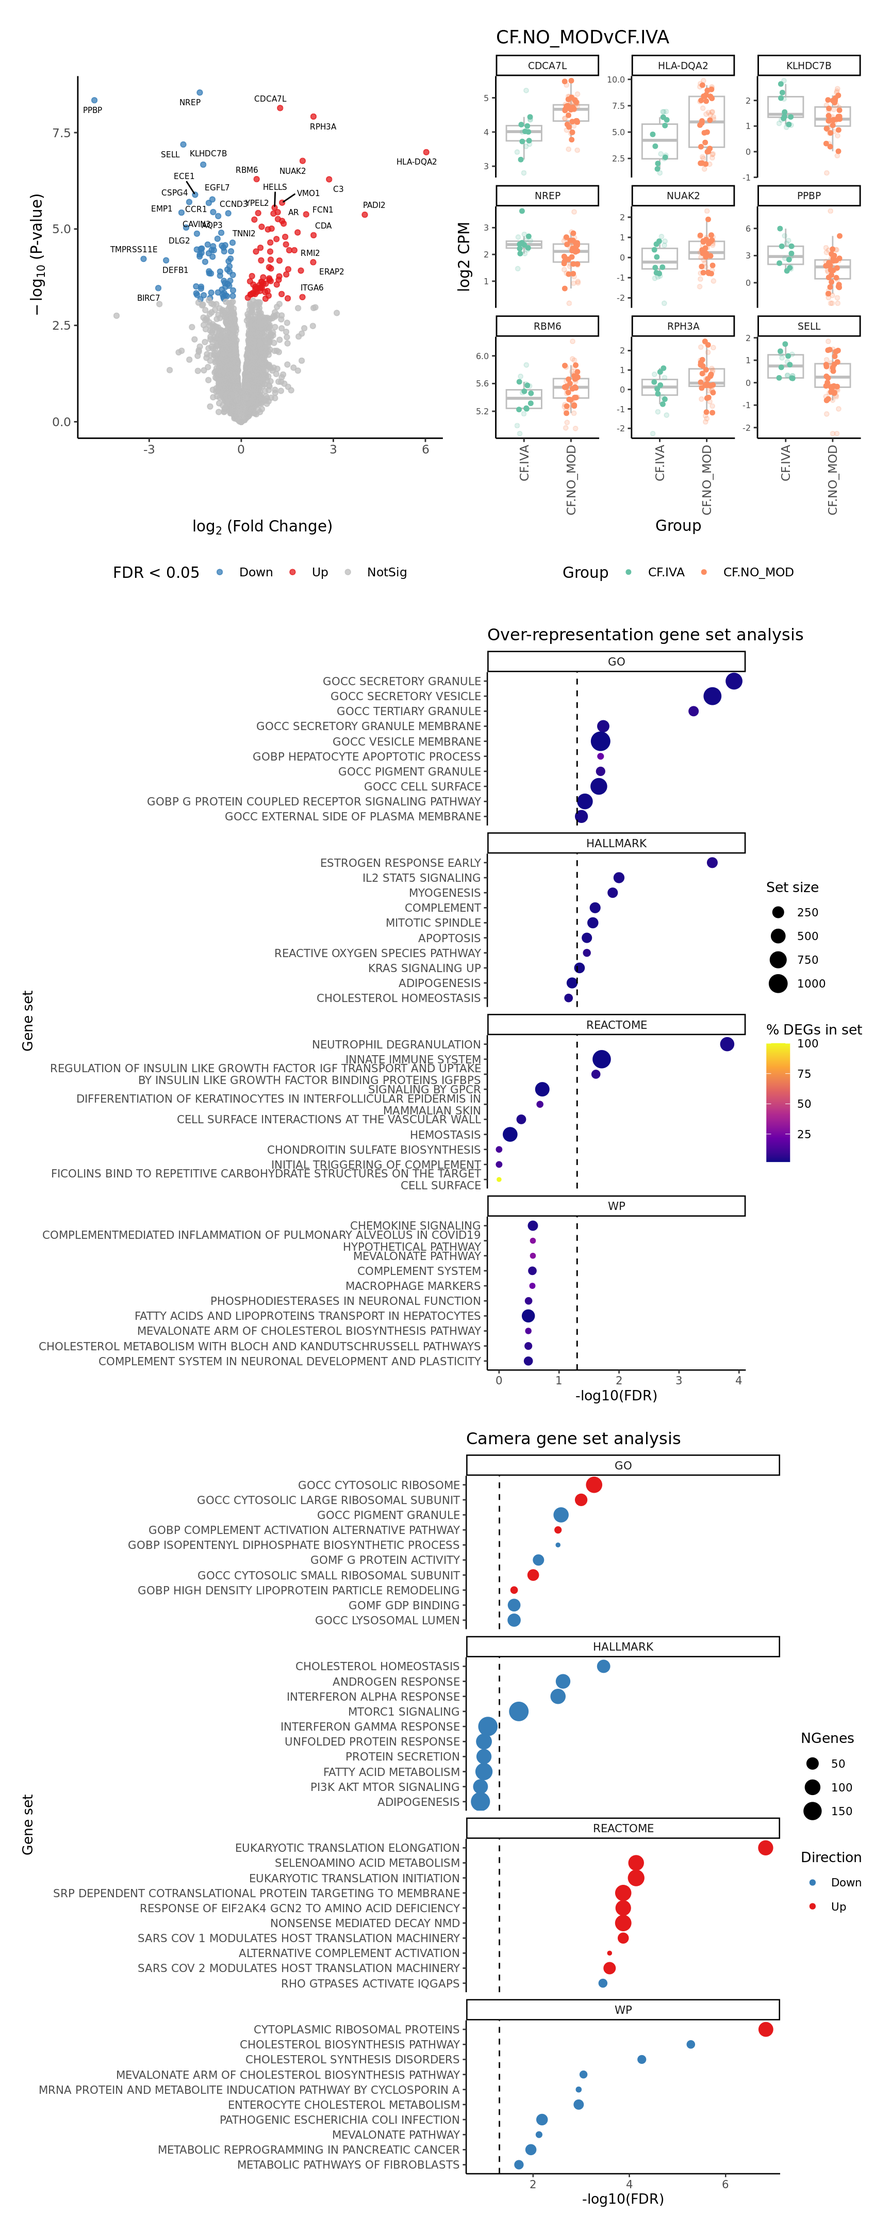
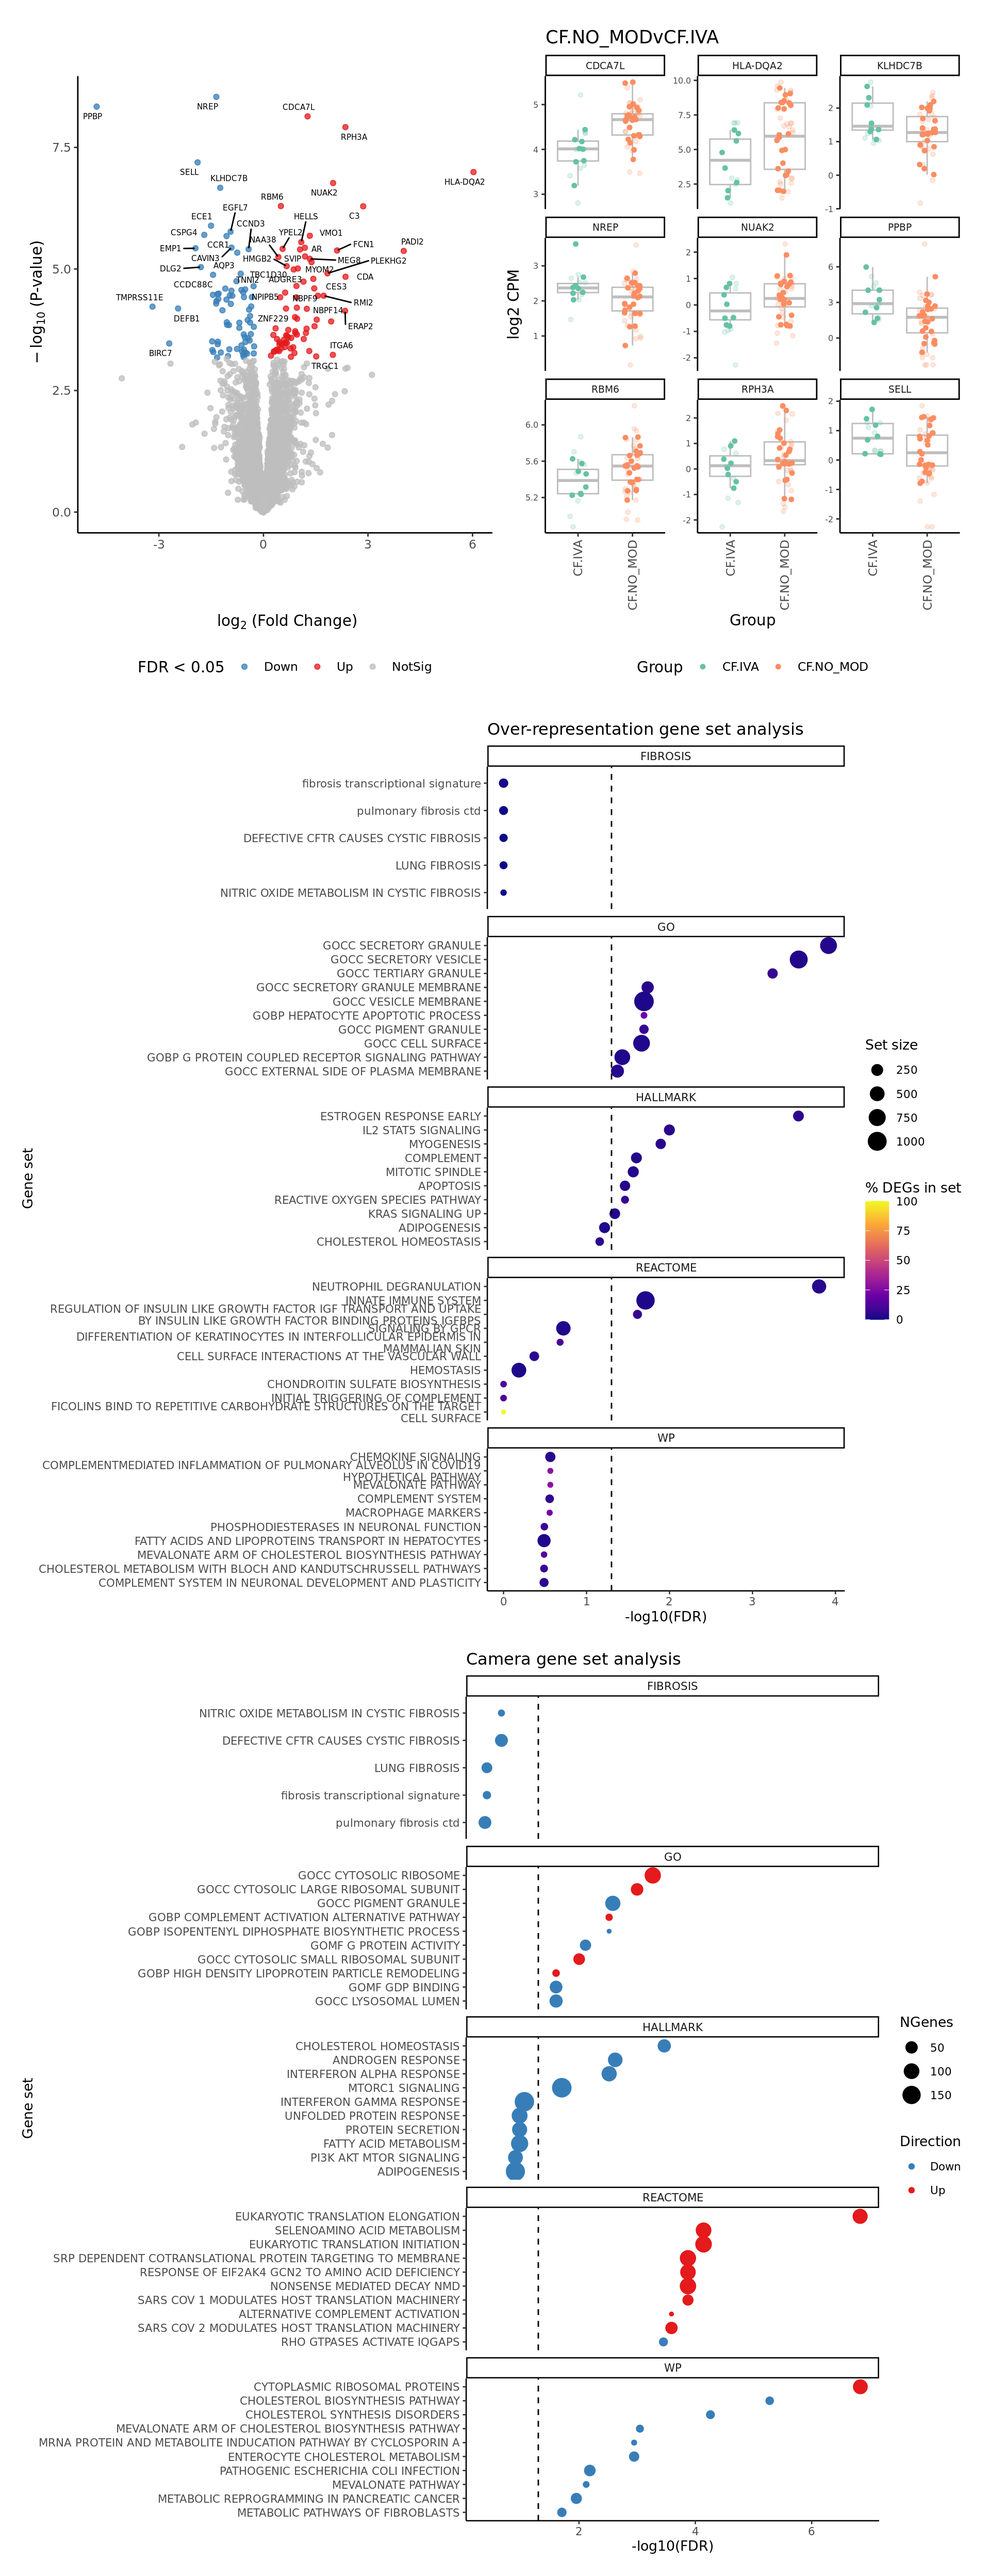
Build site.

diff --git a/docs/13.0_DGE_analysis_macro-alveolar_cells_CF-only-samples.html b/docs/13.0_DGE_analysis_macro-alveolar_cells_CF-only-samples.html
@@ -11,7 +11,7 @@
 
 <meta name="author" content="Jovana Maksimovic" />
 
-<meta name="date" content="2024-09-05" />
+<meta name="date" content="2024-09-06" />
 
 <title>Inflammation of Paediatric Pulmonary Diseases</title>
 
@@ -356,7 +356,7 @@ Diseases</h1>
 <h3 class="subtitle">DGE analysis of alveolar macrophages: CF modifier
 and severity</h3>
 <h4 class="author">Jovana Maksimovic</h4>
-<h4 class="date">September 05, 2024</h4>
+<h4 class="date">September 06, 2024</h4>
 
 </div>
 
@@ -385,7 +385,7 @@ class="glyphicon glyphicon-ok text-success" aria-hidden="true"></span>
 <div class="tab-content">
 <div id="summary" class="tab-pane fade in active">
 <p>
-<strong>Last updated:</strong> 2024-09-05
+<strong>Last updated:</strong> 2024-09-06
 </p>
 <p>
 <strong>Checks:</strong> <span
@@ -516,15 +516,15 @@ project makes it easier to run your code on other machines.</p>
 <div class="panel panel-default">
 <div class="panel-heading">
 <p class="panel-title">
-<a data-toggle="collapse" data-parent="#workflowr-checks" href="#strongRepositoryversionstrongahrefhttpsatlassianpetermacorgaubitbucketscmospaedinflammationciteseqtree36de10984c3c537906128b02756dd410e94206bctargetblank36de109a">
+<a data-toggle="collapse" data-parent="#workflowr-checks" href="#strongRepositoryversionstrongahrefhttpsatlassianpetermacorgaubitbucketscmospaedinflammationciteseqtree3e0e7569c6edf2e4757f13b3fe58ce410fcd4a8atargetblank3e0e756a">
 <span class="glyphicon glyphicon-ok text-success"
 aria-hidden="true"></span> <strong>Repository version:</strong>
-<a href="https://atlassian.petermac.org.au/bitbucket/scm/os/paed-inflammation-citeseq/tree/36de10984c3c537906128b02756dd410e94206bc" target="_blank">36de109</a>
+<a href="https://atlassian.petermac.org.au/bitbucket/scm/os/paed-inflammation-citeseq/tree/3e0e7569c6edf2e4757f13b3fe58ce410fcd4a8a" target="_blank">3e0e756</a>
 </a>
 </p>
 </div>
 <div
[2 lines of base64/hex data omitted]
 class="panel-collapse collapse">
 <div class="panel-body">
 <p>
@@ -534,7 +534,7 @@ reproducibility.
 </p>
 <p>
 The results in this page were generated with repository version
-<a href="https://atlassian.petermac.org.au/bitbucket/scm/os/paed-inflammation-citeseq/tree/36de10984c3c537906128b02756dd410e94206bc" target="_blank">36de109</a>.
+<a href="https://atlassian.petermac.org.au/bitbucket/scm/os/paed-inflammation-citeseq/tree/3e0e7569c6edf2e4757f13b3fe58ce410fcd4a8a" target="_blank">3e0e756</a>.
 See the <em>Past versions</em> tab to see a history of the changes made
 to the R Markdown and HTML files.
 </p>
@@ -763,6 +763,40 @@ Message
 </tr>
 </thead>
 <tbody>
+<tr>
+<td>
+Rmd
+</td>
+<td>
+<a href="https://atlassian.petermac.org.au/bitbucket/scm/os/paed-inflammation-citeseq/blob/3e0e7569c6edf2e4757f13b3fe58ce410fcd4a8a/analysis/13.0_DGE_analysis_macro-alveolar_cells_CF-only-samples.Rmd" target="_blank">3e0e756</a>
+</td>
+<td>
+Jovana Maksimovic
+</td>
+<td>
+2024-09-06
+</td>
+<td>
+wflow_publish("analysis/13.0_DGE_analysis_macro-alveolar_cells_CF-only-samples.Rmd")
+</td>
+</tr>
+<tr>
+<td>
+html
+</td>
+<td>
+<a href="https://atlassian.petermac.org.au/bitbucket/scm/os/paed-inflammation-citeseq/blob/c857dab34ce100bf932250ecc7b2342180ce1bde/docs/13.0_DGE_analysis_macro-alveolar_cells_CF-only-samples.html" target="_blank">c857dab</a>
+</td>
+<td>
+Jovana Maksimovic
+</td>
+<td>
+2024-09-05
+</td>
+<td>
+Build site.
+</td>
+</tr>
 <tr>
 <td>
 html
@@ -4054,10 +4088,16 @@ pathways.</p>
 Hs.h.all &lt;- convert_gmt_to_list(here(&quot;data/h.all.v2024.1.Hs.entrez.gmt&quot;)) 
 Hs.c5.all &lt;- convert_gmt_to_list(here(&quot;data/c5.all.v2024.1.Hs.entrez.gmt&quot;))
 
+fibrosis &lt;- create_custom_gene_lists_from_file(here(&quot;data/fibrosis_gene_sets.csv&quot;))
+# add fibrosis sets from REACTOME and WIKIPATHWAYS
+fibrosis &lt;- c(lapply(fibrosis, function(l) l[!is.na(l)]),
+              Hs.c2.all[str_detect(names(Hs.c2.all), &quot;FIBROSIS&quot;)])
+
 gene_sets_list &lt;- list(HALLMARK = Hs.h.all,
                        GO = Hs.c5.all,
                        REACTOME = Hs.c2.all[str_detect(names(Hs.c2.all), &quot;REACTOME&quot;)],
-                       WP = Hs.c2.all[str_detect(names(Hs.c2.all), &quot;^WP&quot;)]) </code></pre>
+                       WP = Hs.c2.all[str_detect(names(Hs.c2.all), &quot;^WP&quot;)],
+                       FIBROSIS = fibrosis) </code></pre>
 <p>Plot a detailed summary of the results.</p>
 <pre class="r"><code>layout &lt;- &quot;
       AAAA
@@ -4081,7 +4121,7 @@ plot_ruv_results_summary(contr, cutoff, cellDir, gene_sets_list, gns,
                          pal) -&gt; p
 p</code></pre>
 <pre><code>[[1]]</code></pre>
-<p><img src="figure/13.0_DGE_analysis_macro-alveolar_cells_CF-only-samples.Rmd/unnamed-chunk-34-1.png" width="864" style="display: block; margin: auto;" /></p>
+<p><img src="figure/13.0_DGE_analysis_macro-alveolar_cells_CF-only-samples.Rmd/unnamed-chunk-34-1.png" width="960" style="display: block; margin: auto;" /></p>
 <p>
 <button type="button" class="btn btn-default btn-xs btn-workflowr btn-workflowr-fig" data-toggle="collapse" data-target="#fig-unnamed-chunk-34-1">
 Past versions of unnamed-chunk-34-1.png
@@ -4104,6 +4144,17 @@ Date
 </tr>
 </thead>
 <tbody>
+<tr>
+<td>
+<a href="https://atlassian.petermac.org.au/bitbucket/scm/os/paed-inflammation-citeseq/blob/c857dab34ce100bf932250ecc7b2342180ce1bde/docs/figure/13.0_DGE_analysis_macro-alveolar_cells_CF-only-samples.Rmd/unnamed-chunk-34-1.png" target="_blank">c857dab</a>
+</td>
+<td>
+Jovana Maksimovic
+</td>
+<td>
+2024-09-05
+</td>
+</tr>
 <tr>
 <td>
 <a href="https://atlassian.petermac.org.au/bitbucket/scm/os/paed-inflammation-citeseq/blob/bad1b5f4751decd8ef06bb9e60b23e8b885ebc03/docs/figure/13.0_DGE_analysis_macro-alveolar_cells_CF-only-samples.Rmd/unnamed-chunk-34-1.png" target="_blank">bad1b5f</a>
@@ -5685,7 +5736,68 @@ plot_ruv_results_summary(contr, cutoff, cellDir, gene_sets_list, gns,
                                                  sample = rownames(ySub$samples)),
                          layout,
                          pal) -&gt; p
-#p</code></pre>
+p</code></pre>
+<pre><code>[[1]]</code></pre>
+<p><img src="figure/13.0_DGE_analysis_macro-alveolar_cells_CF-only-samples.Rmd/unnamed-chunk-42-1.png" width="960" style="display: block; margin: auto;" /></p>
+<p>
+<button type="button" class="btn btn-default btn-xs btn-workflowr btn-workflowr-fig" data-toggle="collapse" data-target="#fig-unnamed-chunk-42-1">
+Past versions of unnamed-chunk-42-1.png
+</button>
+</p>
+<div id="fig-unnamed-chunk-42-1" class="collapse">
+<div class="table-responsive">
+<table class="table table-condensed table-hover">
+<thead>
+<tr>
+<th>
+Version
+</th>
+<th>
+Author
+</th>
+<th>
+Date
+</th>
+</tr>
+</thead>
+<tbody>
+<tr>
+<td>
+<a href="https://atlassian.petermac.org.au/bitbucket/scm/os/paed-inflammation-citeseq/blob/bad1b5f4751decd8ef06bb9e60b23e8b885ebc03/docs/figure/13.0_DGE_analysis_macro-alveolar_cells_CF-only-samples.Rmd/unnamed-chunk-42-1.png" target="_blank">bad1b5f</a>
+</td>
+<td>
+Jovana Maksimovic
+</td>
+<td>
+2024-09-03
+</td>
+</tr>
+<tr>
+<td>
+<a href="https://atlassian.petermac.org.au/bitbucket/scm/os/paed-inflammation-citeseq/blob/6a369fe7fd05cab2a23ac04fad05fd0b65bcd830/docs/figure/13.0_DGE_analysis_macro-alveolar_cells_CF-only-samples.Rmd/unnamed-chunk-42-1.png" target="_blank">6a369fe</a>
+</td>
+<td>
+Jovana Maksimovic
+</td>
+<td>
+2024-08-06
+</td>
+</tr>
+<tr>
+<td>
+<a href="https://atlassian.petermac.org.au/bitbucket/scm/os/paed-inflammation-citeseq/blob/4d7d217c0cd31d25ea22dde0ef262aac3f1f7eb5/docs/figure/13.0_DGE_analysis_macro-alveolar_cells_CF-only-samples.Rmd/unnamed-chunk-42-1.png" target="_blank">4d7d217</a>
+</td>
+<td>
+Jovana Maksimovic
+</td>
+<td>
+2024-07-04
+</td>
+</tr>
+</tbody>
+</table>
+</div>
+</div>
 </div>
 </div>
 <div id="section-1" class="section level2 unnumbered">
